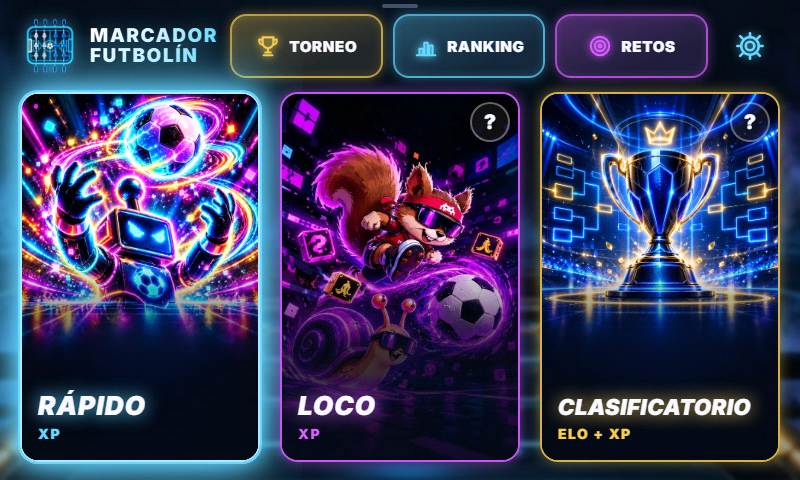
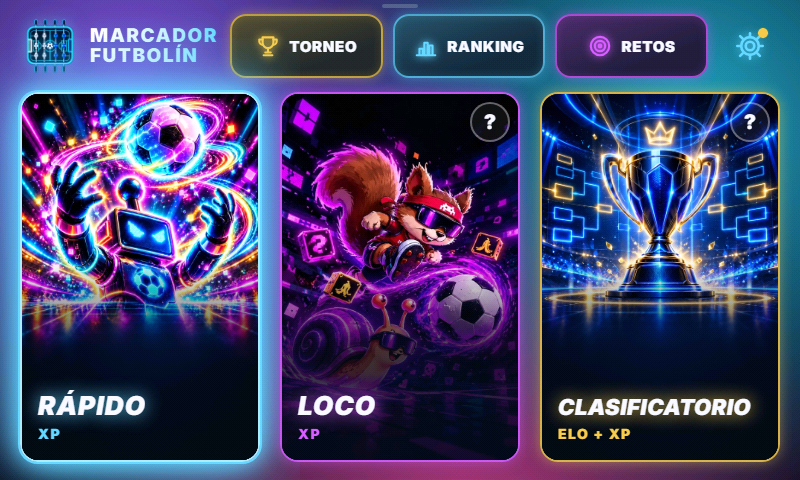
Pantalla de 7": fondos en degradado, reloj de reposo nuevo y sin imagen corrida
- La interrupción del panel vuelve al núcleo que dibuja: en el otro núcleo los dos se pisaban la PSRAM y, al
  cambiar mucho la pantalla (cartel de gol), la imagen se corría de lado (vídeo de Alex).
- Inicio y configuración: fondo en degradado radial de cuatro colores en vez de la foto de la app (en las capas,
  con tramado para que no haga franjas). Tarjetas y botones encendidos y pulsados precargados al encender; la
  tarjeta elegida se enciende de golpe.
- Reloj de reposo nuevo: hora grande dentro de un aro que hace de secundero, con los segundos y la fecha; cada
  segundo solo se repinta un trocito (11 ms; el anterior repintaba el reloj, 60 marcas con sombra y una animación).
- Inicio ya no se repinta solo (el punto del engranaje se recoloreaba en cada vuelta).
- Orden USB REPOSO para probar el reloj sin esperar.

Changed region(s): [[0.0, 0.0, 1.0, 1.0], [0.0, 0.6875, 0.0312, 1.0]]

diff --git a/hardware/esp32s3_pantalla7/ui_reposo.h b/hardware/esp32s3_pantalla7/ui_reposo.h
@@ -1,19 +1,22 @@
-// MARCADOR FUTBOLÍN V3 · reposo, igual que SleepOverlay de la app (src/ui/components/SleepOverlay.tsx).
+// MARCADOR FUTBOLÍN V3 · reposo (el reloj que sale tras un rato sin tocar nada).
 // ---------------------------------------------------------------------------------------------------
-// Fondo casi negro, reloj de segmentos que ocupa casi todo el ancho (los dos puntos laten con los segundos),
-// barra de 60 marcas que se encienden una por segundo (la actual, naranja, da un destello) con los segundos al
-// lado, la fecha, el último partido y «Toca para despertar». El primer toque solo despierta.
+// Diseño propio de la placa (Alex, 18/10/2026), más moderno y ligero que el SleepOverlay de la app: la hora grande
+// en el centro de un aro que se va llenando segundo a segundo (el secundero, con un punto naranja en la punta), los
+// segundos y la fecha dentro del aro, el último partido arriba y «Toca para despertar» abajo. El primer toque solo
+// despierta.
+// Ligero a propósito: cada segundo solo se repinta el trocito de aro nuevo, el punto y los dos números de los
+// segundos (el reloj anterior repintaba el reloj grande, las 60 marcas con sombra y una animación, y la imagen
+// daba saltos). La hora y la fecha, una vez por minuto.
 
 #ifndef MFV3_UI_REPOSO_H
 #define MFV3_UI_REPOSO_H
 
 #include "ui_base.h"
-#include "ui_sevenseg.h"
 
 namespace reposo {
 
 static lv_obj_t* scr = nullptr;
-static lv_obj_t *clock, *ticks[60], *sec, *date, *last, *hint, *battery;
+static lv_obj_t *ring, *timeLbl, *sec, *date, *last, *hint, *battery;
 static int lastSec = -1, lastMinute = -1;
 static char lastText[64] = "";
 
@@ -21,54 +24,48 @@ static const char* const DIAS[7] = {"Domingo", "Lunes", "Martes", "Miércoles", 
 static const char* const MESES[12] = {"enero", "febrero", "marzo", "abril", "mayo", "junio", "julio",
                                       "agosto", "septiembre", "octubre", "noviembre", "diciembre"};
 
-// Marcas: 60 en 662 px (de 40 a 702), 6 × 12 px; cada cinco, 18 px de alto. Centradas en y = 322.
-static void styleTick(int i, int s) {
-  lv_obj_t* t = ticks[i];
-  if (i < s) {
-    lv_obj_set_style_bg_color(t, ui::hex(0x4fd8ff), 0);
-    lv_obj_set_style_bg_opa(t, 140, 0);
-    lv_obj_set_style_shadow_width(t, 6, 0);
-    lv_obj_set_style_shadow_color(t, ui::hex(0x4fd8ff), 0);
-    lv_obj_set_style_shadow_opa(t, 128, 0);
-  } else if (i == s) {
-    lv_obj_set_style_bg_color(t, ui::hex(0xff9a3c), 0);
-    lv_obj_set_style_bg_opa(t, 255, 0);
-    lv_obj_set_style_shadow_width(t, 18, 0);
-    lv_obj_set_style_shadow_color(t, ui::hex(0xff9a3c), 0);
-    lv_obj_set_style_shadow_opa(t, 204, 0);
-  } else {
-    lv_obj_set_style_bg_color(t, ui::hex(0x4fd8ff), 0);
-    lv_obj_set_style_bg_opa(t, 26, 0);
-    lv_obj_set_style_shadow_width(t, 0, 0);
-  }
-}
-
-// Destello de la marca actual (tick-pop: crece en alto y vuelve en 0,6 s).
-static void popCb(void* o, int32_t v) { lv_obj_set_style_transform_scale_y((lv_obj_t*)o, v, 0); }
+const int CX = 400, CY = 236, R = 202;  // centro y radio del aro
+const uint32_t CYAN = 0x4fd8ff, ORANGE = 0xff9a3c;
 
 static void onDelete(lv_event_t*) { scr = nullptr; }
 
 static void build() {
   scr = ui::screen();
   lv_obj_add_event_cb(scr, onDelete, LV_EVENT_DELETE, nullptr);
-  lv_obj_set_style_bg_color(scr, ui::hex(0x020407), 0);
-  clock = sevenseg::create(scr, 42, 42, 250, "00:00", 0x4fd8ff, 220);
-  for (int i = 0; i < 60; i++) {
-    int h = (i % 5 == 4) ? 18 : 12;
-    int x = 40 + (int)lroundf(i * (662.0f - 6) / 59);
-    ticks[i] = ui::box(scr, x, 322 - h / 2, 6, h);
-    lv_obj_set_style_radius(ticks[i], 3, 0);
-    lv_obj_set_style_transform_pivot_y(ticks[i], h / 2, 0);
-  }
-  sec = ui::text(scr, "00", 900, 26, 0xff9a3c);
-  date = ui::text(scr, "", 400, 22, 0x5d7f9c, 1.32f);
-  last = ui::text(scr, "", 700, 15, 0x34506a, 0.9f);
+  // Fondo liso casi negro (un degradado tan oscuro hace franjas con los colores de la pantalla).
+  lv_obj_set_style_bg_color(scr, ui::hex(0x050a14), 0);
+
+  // Aro del secundero: pista tenue entera y, encima, lo que va de minuto, con un punto naranja en la punta.
+  ring = lv_arc_create(scr);
+  lv_obj_set_size(ring, 2 * R, 2 * R);
+  lv_obj_set_pos(ring, CX - R, CY - R);
+  lv_arc_set_rotation(ring, 270);
+  lv_arc_set_bg_angles(ring, 0, 360);
+  lv_arc_set_range(ring, 0, 60);
+  lv_arc_set_value(ring, 0);
+  lv_obj_remove_flag(ring, LV_OBJ_FLAG_CLICKABLE);
+  lv_obj_set_style_arc_width(ring, 6, LV_PART_MAIN);
+  lv_obj_set_style_arc_color(ring, ui::hex(0x15263b), LV_PART_MAIN);
+  lv_obj_set_style_arc_width(ring, 6, LV_PART_INDICATOR);
+  lv_obj_set_style_arc_color(ring, ui::hex(CYAN), LV_PART_INDICATOR);
+  lv_obj_set_style_arc_rounded(ring, true, LV_PART_INDICATOR);
+  lv_obj_set_style_bg_color(ring, ui::hex(ORANGE), LV_PART_KNOB);
+  lv_obj_set_style_bg_opa(ring, LV_OPA_COVER, LV_PART_KNOB);
+  lv_obj_set_style_pad_all(ring, 4, LV_PART_KNOB);
+  lv_obj_set_style_radius(ring, LV_RADIUS_CIRCLE, LV_PART_KNOB);
+
+  // Dentro del aro: hora, segundos y fecha.
+  timeLbl = ui::text(scr, "00:00", 900, 110, 0xeaf6ff);
+  sec = ui::text(scr, "00", 900, 26, ORANGE);
+  date = ui::text(scr, "", 400, 22, 0x6f90ae, 0.5f);
+  // Fuera: último partido arriba y el aviso para despertar abajo.
+  last = ui::text(scr, "", 700, 15, 0x4a6784, 0.9f);
   lv_label_set_recolor(last, true);
-  hint = ui::text(scr, "TOCA PARA DESPERTAR", 400, 12, 0x23344a, 1.68f);
-  ui::place(hint, 400 + 0.84f, 447, 0);
-  // Solo en la placa (la app no tiene batería): aviso en rojo sobre «Toca para despertar».
+  hint = ui::text(scr, "TOCA PARA DESPERTAR", 400, 12, 0x2c4058, 1.68f);
+  ui::place(hint, 400 + 0.84f, 452, 0);
+  // Solo en la placa (la app no tiene batería): aviso en rojo arriba a la derecha.
   battery = ui::text(scr, "BATERÍA BAJA: CONECTA EL CARGADOR", 800, 13, ui::color::DANGER, 1.3f);
-  ui::place(battery, 400, 424, 0);
+  ui::place(battery, 784, 12, 0, ui::Align::Right);
   lv_obj_add_flag(battery, LV_OBJ_FLAG_HIDDEN);
   lastSec = lastMinute = -1;
   lastText[0] = 0;
@@ -84,37 +81,27 @@ static void update(uint8_t hour, uint8_t minute, uint8_t second, uint8_t weekday
     ui::show(scr);
   }
   char b[64];
-  if (minute != lastMinute || lastSec < 0 || (second & 1) != (lastSec & 1)) {
-    snprintf(b, sizeof(b), "%02u:%02u", hour, minute);
-    sevenseg::setText(clock, b, second & 1);
-  }
   if (minute != lastMinute) {
+    snprintf(b, sizeof(b), "%02u:%02u", hour, minute);
+    lv_label_set_text(timeLbl, b);
+    ui::place(timeLbl, CX, CY - 112, 120);
     snprintf(b, sizeof(b), "%s, %u de %s", DIAS[weekday % 7], day, MESES[(month + 11) % 12]);
     lv_label_set_text(date, b);
-    ui::place(date, 400 + 0.66f, 355.4f, 26);
+    ui::place(date, CX, CY + 66, 26);
     lastMinute = minute;
   }
   if (second != lastSec) {
-    for (int i = 0; i < 60; i++) styleTick(i, second);
-    lv_anim_t a;
-    lv_anim_init(&a);
-    lv_anim_set_var(&a, ticks[second % 60]);
-    lv_anim_set_exec_cb(&a, popCb);
-    lv_anim_set_values(&a, 563, 256);  // scaleY(2,2) → 1
-    lv_anim_set_duration(&a, 600);
-    lv_anim_set_path_cb(&a, lv_anim_path_ease_out);
-    lv_anim_start(&a);
+    lv_arc_set_value(ring, second % 60);
     snprintf(b, sizeof(b), "%02u", second);
     lv_label_set_text(sec, b);
-    ui::place(sec, 764.2f, 306.2f, 0, ui::Align::Right);
+    ui::place(sec, CX, CY + 20, 32);
     lastSec = second;
   }
-  if (lowBattery) lv_obj_remove_flag(battery, LV_OBJ_FLAG_HIDDEN);
-  else lv_obj_add_flag(battery, LV_OBJ_FLAG_HIDDEN);
+  ui::setVisible(battery, lowBattery);
   if (strcmp(lastMatch ? lastMatch : "", lastText)) {
     snprintf(lastText, sizeof(lastText), "%s", lastMatch ? lastMatch : "");
     lv_label_set_text(last, lastText);
-    ui::place(last, 400, 402, 19);
+    ui::place(last, 16, 10, 19, ui::Align::Left);
   }
 }
 

diff --git a/hardware/esp32s3_pantalla7/ui_capas.h b/hardware/esp32s3_pantalla7/ui_capas.h
@@ -9,15 +9,15 @@ struct Capa {
   int16_t x, y, w, h;
 };
 const Capa INICIO = {"capas/inicio.lz4", 0, 0, 800, 480};
-const Capa INICIO_SEL_RAPIDO = {"capas/inicio-sel-rapido.lz4", 0, 36, 302, 444};
-const Capa INICIO_SEL_LOCO = {"capas/inicio-sel-loco.lz4", 226, 40, 333, 440};
-const Capa INICIO_SEL_CLASIFICATORIO = {"capas/inicio-sel-clasificatorio.lz4", 478, 32, 322, 448};
-const Capa INICIO_PUL_RAPIDO = {"capas/inicio-pul-rapido.lz4", 0, 42, 296, 438};
-const Capa INICIO_PUL_LOCO = {"capas/inicio-pul-loco.lz4", 230, 48, 323, 432};
-const Capa INICIO_PUL_CLASIFICATORIO = {"capas/inicio-pul-clasificatorio.lz4", 482, 40, 318, 440};
-const Capa INICIO_PUL_TORNEO = {"capas/inicio-pul-torneo.lz4", 200, 0, 212, 112};
-const Capa INICIO_PUL_RANKING = {"capas/inicio-pul-ranking.lz4", 364, 0, 210, 109};
-const Capa INICIO_PUL_RETOS = {"capas/inicio-pul-retos.lz4", 529, 0, 207, 94};
+const Capa INICIO_SEL_RAPIDO = {"capas/inicio-sel-rapido.lz4", 0, 38, 300, 442};
+const Capa INICIO_SEL_LOCO = {"capas/inicio-sel-loco.lz4", 226, 40, 328, 440};
+const Capa INICIO_SEL_CLASIFICATORIO = {"capas/inicio-sel-clasificatorio.lz4", 478, 34, 322, 446};
+const Capa INICIO_PUL_RAPIDO = {"capas/inicio-pul-rapido.lz4", 0, 48, 293, 432};
+const Capa INICIO_PUL_LOCO = {"capas/inicio-pul-loco.lz4", 230, 48, 317, 432};
+const Capa INICIO_PUL_CLASIFICATORIO = {"capas/inicio-pul-clasificatorio.lz4", 482, 41, 318, 439};
+const Capa INICIO_PUL_TORNEO = {"capas/inicio-pul-torneo.lz4", 202, 0, 210, 110};
+const Capa INICIO_PUL_RANKING = {"capas/inicio-pul-ranking.lz4", 364, 0, 210, 105};
+const Capa INICIO_PUL_RETOS = {"capas/inicio-pul-retos.lz4", 529, 0, 202, 94};
 const Capa INICIO_AYUDA_LOCO = {"capas/inicio-ayuda-loco.lz4", 0, 0, 800, 480};
 const Capa INICIO_AYUDA_CLASIFICATORIO = {"capas/inicio-ayuda-clasificatorio.lz4", 0, 0, 800, 480};
 const Capa CONFIG = {"capas/config.lz4", 0, 0, 800, 480};
@@ -43,17 +43,17 @@ const Capa CONFIG_CIFRA_OFF_8 = {"capas/config-cifra-off-8.lz4", 102, 125, 204, 
 const Capa CONFIG_CIFRA_OFF_9 = {"capas/config-cifra-off-9.lz4", 102, 125, 204, 203};
 const Capa CONFIG_NUM_1 = {nullptr, 127, 150, 155, 154};
 const Capa CONFIG_NUM_2 = {nullptr, 66, 150, 278, 154};
-const Capa CONFIG_MODO_LOCO = {"capas/config-modo-loco.lz4", 255, 0, 290, 58};
-const Capa CONFIG_MODO_CLASIFICATORIO = {"capas/config-modo-clasificatorio.lz4", 258, 0, 284, 57};
-const Capa CONFIG_TIEMPO = {"capas/config-tiempo.lz4", 6, 56, 788, 363};
-const Capa CONFIG_AMBAS = {"capas/config-ambas.lz4", 397, 56, 397, 363};
-const Capa CONFIG_IZQ_MAX = {"capas/config-izq-max.lz4", 17, 57, 375, 94};
-const Capa CONFIG_IZQ_MIN = {"capas/config-izq-min.lz4", 18, 326, 374, 93};
+const Capa CONFIG_MODO_LOCO = {"capas/config-modo-loco.lz4", 256, 0, 288, 58};
+const Capa CONFIG_MODO_CLASIFICATORIO = {"capas/config-modo-clasificatorio.lz4", 257, 0, 285, 57};
+const Capa CONFIG_TIEMPO = {"capas/config-tiempo.lz4", 7, 57, 785, 362};
+const Capa CONFIG_AMBAS = {"capas/config-ambas.lz4", 398, 57, 394, 361};
+const Capa CONFIG_IZQ_MAX = {"capas/config-izq-max.lz4", 18, 58, 373, 91};
+const Capa CONFIG_IZQ_MIN = {"capas/config-izq-min.lz4", 18, 326, 372, 92};
 const Capa CONFIG_IZQ_PUL_MAS = {"capas/config-izq-pul-mas.lz4", 22, 66, 365, 78};
 const Capa CONFIG_IZQ_PUL_MENOS = {"capas/config-izq-pul-menos.lz4", 22, 332, 365, 78};
-const Capa CONFIG_PUL_CONTINUAR = {"capas/config-pul-continuar.lz4", 263, 397, 274, 83};
-const Capa CONFIG_DER_MAX = {"capas/config-der-max.lz4", 408, 57, 375, 94};
-const Capa CONFIG_DER_MIN = {"capas/config-der-min.lz4", 408, 326, 374, 93};
+const Capa CONFIG_PUL_CONTINUAR = {"capas/config-pul-continuar.lz4", 265, 397, 271, 83};
+const Capa CONFIG_DER_MAX = {"capas/config-der-max.lz4", 410, 59, 371, 85};
+const Capa CONFIG_DER_MIN = {"capas/config-der-min.lz4", 410, 326, 371, 91};
 const Capa CONFIG_DER_PUL_MAS = {"capas/config-der-pul-mas.lz4", 413, 66, 365, 78};
 const Capa CONFIG_DER_PUL_MENOS = {"capas/config-der-pul-menos.lz4", 413, 332, 365, 78};
 const Capa PARTIDO = {"capas/partido.lz4", 0, 0, 800, 480};

diff --git a/scripts/placa_recursos.py b/scripts/placa_recursos.py
@@ -34,8 +34,9 @@ RANGO_TEXTO = "0x20-0x7E,0xA0-0xFF,0x2013-0x2014,0x2018-0x201D,0x2022,0x2026,0x2
 JUEGOS = {"texto": RANGO_TEXTO, "cifras": "0x20,0x2B-0x3A,0x2013,0x2212,0x25"}  # cifras: + , - . / 0-9 : % y guiones
 
 
-def rgb565_dither(im):
-    """RGB888 -> RGB565 con tramado ordenado 4×4 (los degradados no hacen escalones)."""
+def rgb565_dither(im, ox=0, oy=0):
+    """RGB888 -> RGB565 con tramado ordenado 4×4 (los degradados no hacen escalones). `ox`, `oy`: posición del
+    recorte en la pantalla, para que el tramado de un recorte case con el de su fondo."""
     bayer = [0, 8, 2, 10, 12, 4, 14, 6, 3, 11, 1, 9, 15, 7, 13, 5]
     w, h = im.size
     px = im.load()
@@ -44,7 +45,7 @@ def rgb565_dither(im):
     for y in range(h):
         for x in range(w):
             r, g, b = px[x, y][:3]
-            t = bayer[(y & 3) * 4 + (x & 3)]
+            t = bayer[((y + oy) & 3) * 4 + ((x + ox) & 3)]
             r = min(255, r + (t >> 1))
             g = min(255, g + (t >> 2))
             b = min(255, b + (t >> 1))
@@ -80,11 +81,16 @@ def rgb565(im):
     return bytes(out)
 
 
-def lz4_capa(im, alfa):
+# Capas con fondo en degradado (inicio y configuración): con tramado, que en 16 bits un degradado hace franjas.
+TRAMADAS = ("inicio", "config")
+
+
+def lz4_capa(im, alfa, tramado=None):
     """Capa para la placa: cabecera de imagen de LVGL (12 bytes), tamaño sin comprimir (4) y bloque LZ4.
-    Se abre en milisegundos (un JPEG tardaba 0,3–0,5 s) y ocupa menos que el JPEG, sin perder calidad."""
+    Se abre en milisegundos (un JPEG tardaba 0,3–0,5 s) y ocupa menos que el JPEG, sin perder calidad.
+    `tramado`: (x, y) del recorte en la pantalla si va con tramado."""
     w, h = im.size
-    data = rgb565(im)
+    data = bytes(rgb565_dither(im.convert("RGB"), *tramado)) if tramado else rgb565(im)
     if alfa:
         data += bytes(im.convert("RGBA").getchannel("A").tobytes())
     head = struct.pack("<BBHHHHH", 0x19, 0x14 if alfa else 0x12, 0, w, h, w * 2, 0)
@@ -105,7 +111,8 @@ def capas():
             continue
         src = os.path.join(BUILD, "capas", f"{name}.png")
         im = Image.open(src)
-        open(os.path.join(out, f"{name}.lz4"), "wb").write(lz4_capa(im, bool(m.get("alfa"))))
+        tram = (int(m.get("x", 0)), int(m.get("y", 0))) if name.startswith(TRAMADAS) and not m.get("alfa") else None
+        open(os.path.join(out, f"{name}.lz4"), "wb").write(lz4_capa(im, bool(m.get("alfa")), tram))
         m["archivo"] = f"capas/{name}.lz4"
     return manifest
 

diff --git a/hardware/esp32s3_pantalla7/ui_inicio.h b/hardware/esp32s3_pantalla7/ui_inicio.h
@@ -81,7 +81,7 @@ static void onCard(lv_event_t* e) {
   if (selected != i) {
     for (int k = 0; k < 3; k++)
       if (k != i) ui::hide(sel[k]);
-    ui::fadeIn(sel[i], 250);
+    ui::reveal(sel[i]);  // de golpe (la app la funde en 0,25 s): en la placa el fundido iba a saltos y retrasaba el toque
     selected = (int8_t)i;
     selTimer = lv_timer_create(onSelTimeout, SELECT_TIMEOUT_MS, nullptr);
     lv_timer_set_repeat_count(selTimer, 1);
@@ -178,21 +178,26 @@ static bool active() { return scr && lv_screen_active() == scr; }
 // Mando conectado / versión nueva / aviso (nullptr = ninguno).
 static void setStatus(bool mandoLinked, bool update, const char* warning) {
   if (!active()) return;
+  // Se llama en cada vuelta: solo se toca lo que cambia (cambiar un color, aunque sea al mismo, lo repinta).
   if (mandoLinked || update) {
-    uint32_t c = update ? ui::color::RANKED : ui::color::OK;
-    lv_obj_set_style_bg_color(dot, ui::hex(c), 0);
-    lv_obj_set_style_shadow_color(dot, ui::hex(c), 0);
-    lv_obj_remove_flag(dot, LV_OBJ_FLAG_HIDDEN);
+    lv_color_t c = ui::hex(update ? ui::color::RANKED : ui::color::OK);
+    if (!lv_color_eq(lv_obj_get_style_bg_color(dot, LV_PART_MAIN), c)) {
+      lv_obj_set_style_bg_color(dot, c, 0);
+      lv_obj_set_style_shadow_color(dot, c, 0);
+    }
+    ui::setVisible(dot, true);
   } else {
-    lv_obj_add_flag(dot, LV_OBJ_FLAG_HIDDEN);
+    ui::setVisible(dot, false);
   }
   if (warning) {
-    if (strcmp(lv_label_get_text(warnText), warning)) lv_label_set_text(warnText, warning);
-    lv_obj_update_layout(warn);
-    lv_obj_set_x(warn, 400 - lv_obj_get_width(warn) / 2);
-    lv_obj_remove_flag(warn, LV_OBJ_FLAG_HIDDEN);
+    if (strcmp(lv_label_get_text(warnText), warning)) {
+      lv_label_set_text(warnText, warning);
+      lv_obj_update_layout(warn);
+      lv_obj_set_x(warn, 400 - lv_obj_get_width(warn) / 2);
+    }
+    ui::setVisible(warn, true);
   } else {
-    lv_obj_add_flag(warn, LV_OBJ_FLAG_HIDDEN);
+    ui::setVisible(warn, false);
   }
 }
 static bool dotShown() { return dot && !lv_obj_has_flag(dot, LV_OBJ_FLAG_HIDDEN); }

diff --git a/hardware/esp32s3_pantalla7/ui_port.h b/hardware/esp32s3_pantalla7/ui_port.h
@@ -155,27 +155,15 @@ static bool beginDisplay(LGFX& lcd, lv_display_t*& disp) {
                         (int)b.pin_d12, (int)b.pin_d13, (int)b.pin_d14, (int)b.pin_d15};
   for (int i = 0; i < 16; i++) c.data_gpio_nums[i] = pins[i];
   c.flags.fb_in_psram = 1;
-  // El panel se crea desde el núcleo 0: su interrupción (la que copia cada imagen de la PSRAM a los búferes de
-  // reserva, unas 30 veces por segundo) se queda en ese núcleo y deja el 1 entero para dibujar.
-  static esp_lcd_rgb_panel_config_t cfg;
-  static volatile int made;
-  cfg = c;
-  made = 0;
-  xTaskCreatePinnedToCore(
-      [](void*) {
-        bool ok = esp_lcd_new_rgb_panel(&cfg, &panel) == ESP_OK;
-        if (ok) {
-          esp_lcd_rgb_panel_event_callbacks_t cbs = {};
-          cbs.on_vsync = onVsync;
-          esp_lcd_rgb_panel_register_event_callbacks(panel, &cbs, nullptr);
-          ok = esp_lcd_panel_reset(panel) == ESP_OK && esp_lcd_panel_init(panel) == ESP_OK;
-        }
-        made = ok ? 1 : -1;
-        vTaskDelete(nullptr);
-      },
-      "panel", 4096, nullptr, configMAX_PRIORITIES - 2, nullptr, 0);
-  while (!made) vTaskDelay(1);
-  if (made < 0) return false;
+  // Se crea desde este núcleo (el que dibuja): su interrupción copia la imagen de la PSRAM a los búferes de reserva
+  // y, en el mismo núcleo, mientras copia LVGL no usa la PSRAM. Probado en el otro núcleo (18/10/2026): dibujaba algo
+  // más rápido, pero los dos a la vez se pisaban la PSRAM, la pantalla no recibía a tiempo y la imagen se corría
+  // (con CONFIG_LCD_RGB_RESTART_IN_VSYNC se recoloca en la imagen siguiente, pero se veía el salto).
+  if (esp_lcd_new_rgb_panel(&c, &panel) != ESP_OK) return false;
+  esp_lcd_rgb_panel_event_callbacks_t cbs = {};
+  cbs.on_vsync = onVsync;
+  esp_lcd_rgb_panel_register_event_callbacks(panel, &cbs, nullptr);
+  if (esp_lcd_panel_reset(panel) != ESP_OK || esp_lcd_panel_init(panel) != ESP_OK) return false;
   void *f0 = nullptr, *f1 = nullptr;
   if (esp_lcd_rgb_panel_get_frame_buffer(panel, 2, &f0, &f1) != ESP_OK) return false;
   fb0 = (uint16_t*)f0;

diff --git a/docs/ESTADO.md b/docs/ESTADO.md
@@ -137,6 +137,12 @@ Fecha: 16/10/2026 · Versión 0.3.0 · Motor 1.0.0 (`reglas-partido-2`: por gole
   - Diferencias con la app para ir fluida: el cartel de gol y los de PARTIDO / 2ª PARTE aparecen y se van de golpe
     (sin fundido ni deslizarse), en la bola de partido solo late el cartel (el aro rojo queda fijo), la barra del
     bloqueo baja a saltos de décima y el confeti de la victoria no gira y son 16 trocitos.
+  - Inicio y configuración con fondo en degradado radial de cuatro colores (violeta, cian, rosa y azul noche) en vez
+    de la foto de la app (Alex); sus tarjetas y botones encendidos y pulsados se preparan al encender y la tarjeta
+    elegida se enciende de golpe. Reloj de reposo nuevo y ligero (hora grande dentro de un aro que hace de
+    secundero): cada segundo repinta solo un trocito (11 ms).
+  - La imagen se corría de lado al cambiar mucho la pantalla (cartel de gol): la interrupción del panel vuelve a ir
+    en el mismo núcleo que dibuja (en el otro se pisaban la PSRAM). Pendiente de que Alex confirme que ya no pasa.
 
 ## Web y compilación
 

diff --git a/docs/HARDWARE.md b/docs/HARDWARE.md
@@ -329,7 +329,8 @@ SPIFFS** u **8M with spiffs**; el programa funciona, pero sin la FAT esas placas
 - `python scripts/placa.py orden "TOQUE 400 240"` → un toque simulado; `orden "GB"` → gol del Blanco.
 - `orden "RENDIMIENTO 1"` → cada segundo, imágenes pintadas y cuánto tardan (y la zona de las que pasan de 60 ms);
   `orden PERFIL` → cuánto cuesta cada efecto de la pantalla que se ve (luego hay que volver al inicio);
-  `orden MEMORIA` → memoria libre (interna y PSRAM).
+  `orden MEMORIA` → memoria libre (interna y PSRAM); `orden REPOSO` → pasa ya al reloj de reposo (cualquier otra
+  orden que no sea CAPTURA lo despierta).
 - `python scripts/comparar.py <escena>` → app | placa lado a lado en `docs/comparar/`.
 - `python scripts/recorrido_placa.py` → recorre Inicio, configuración y un partido entero capturando cada pantalla.
 
